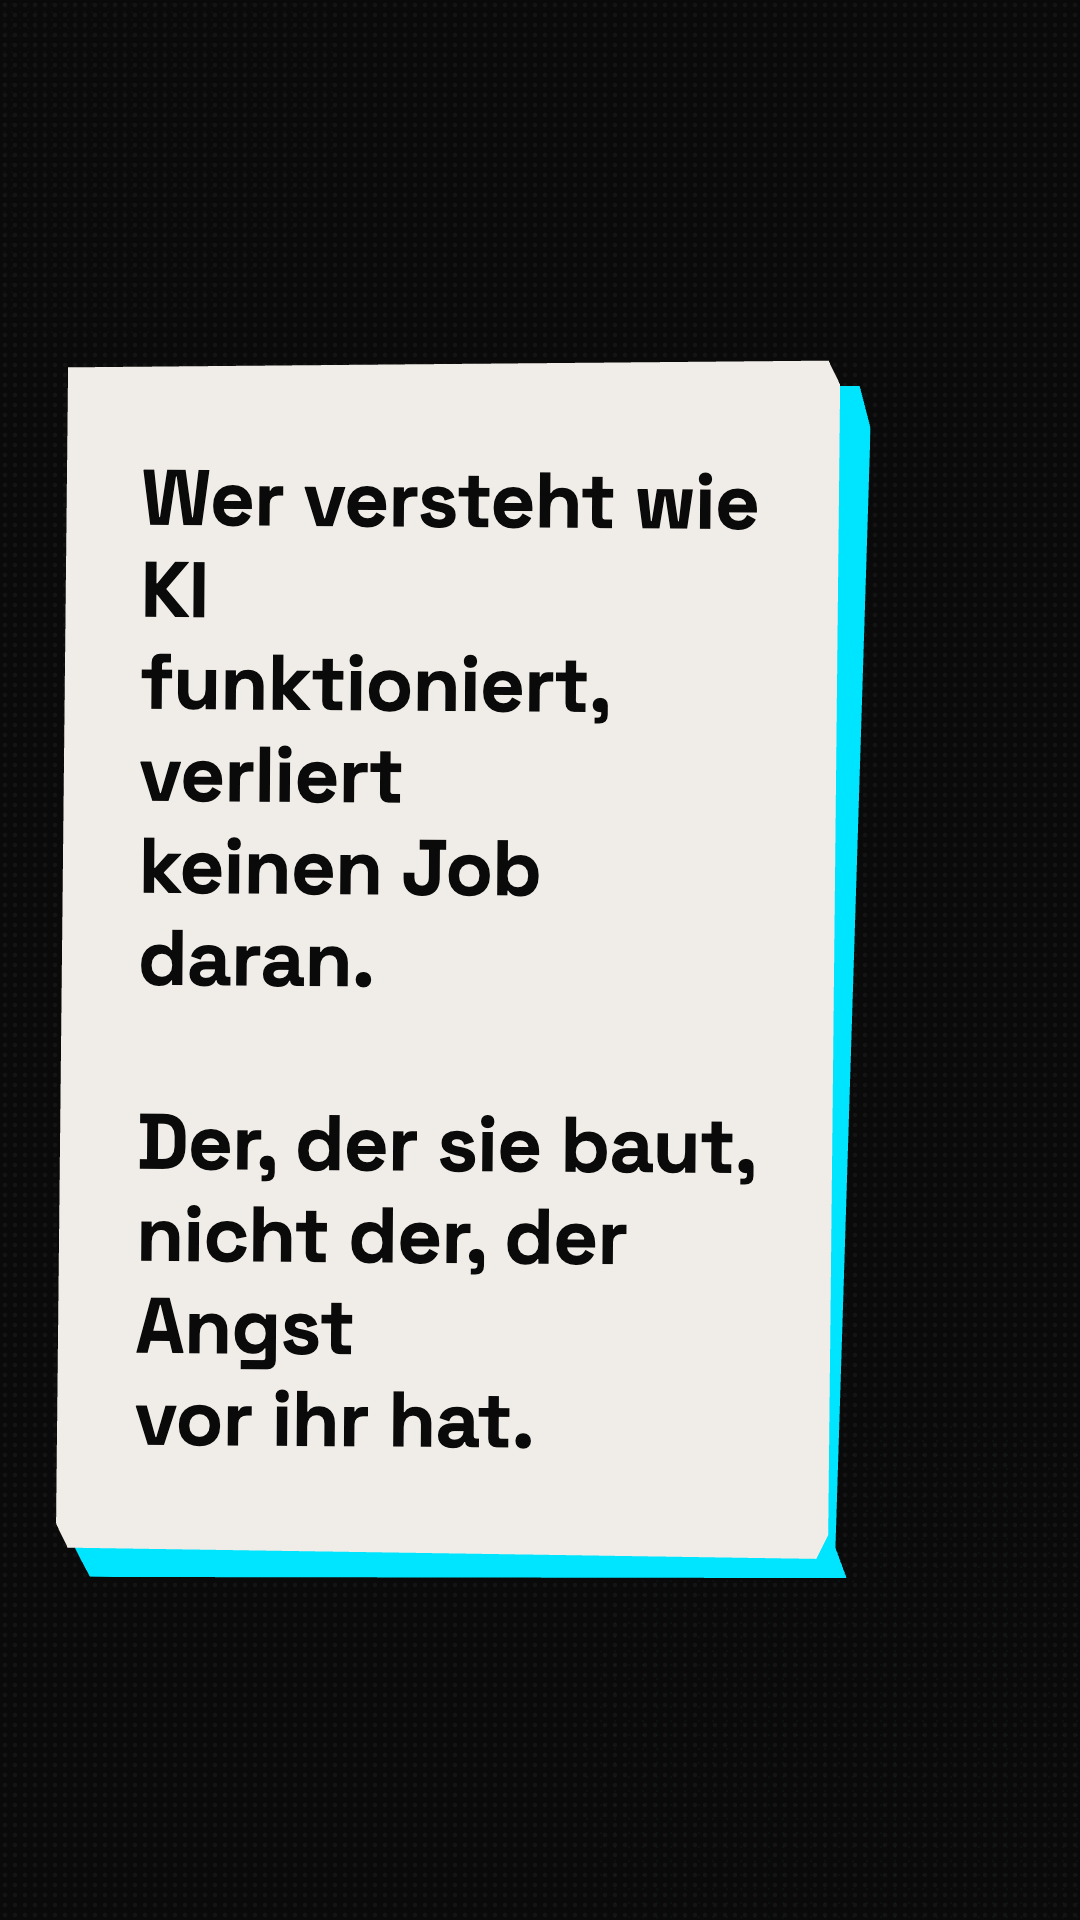
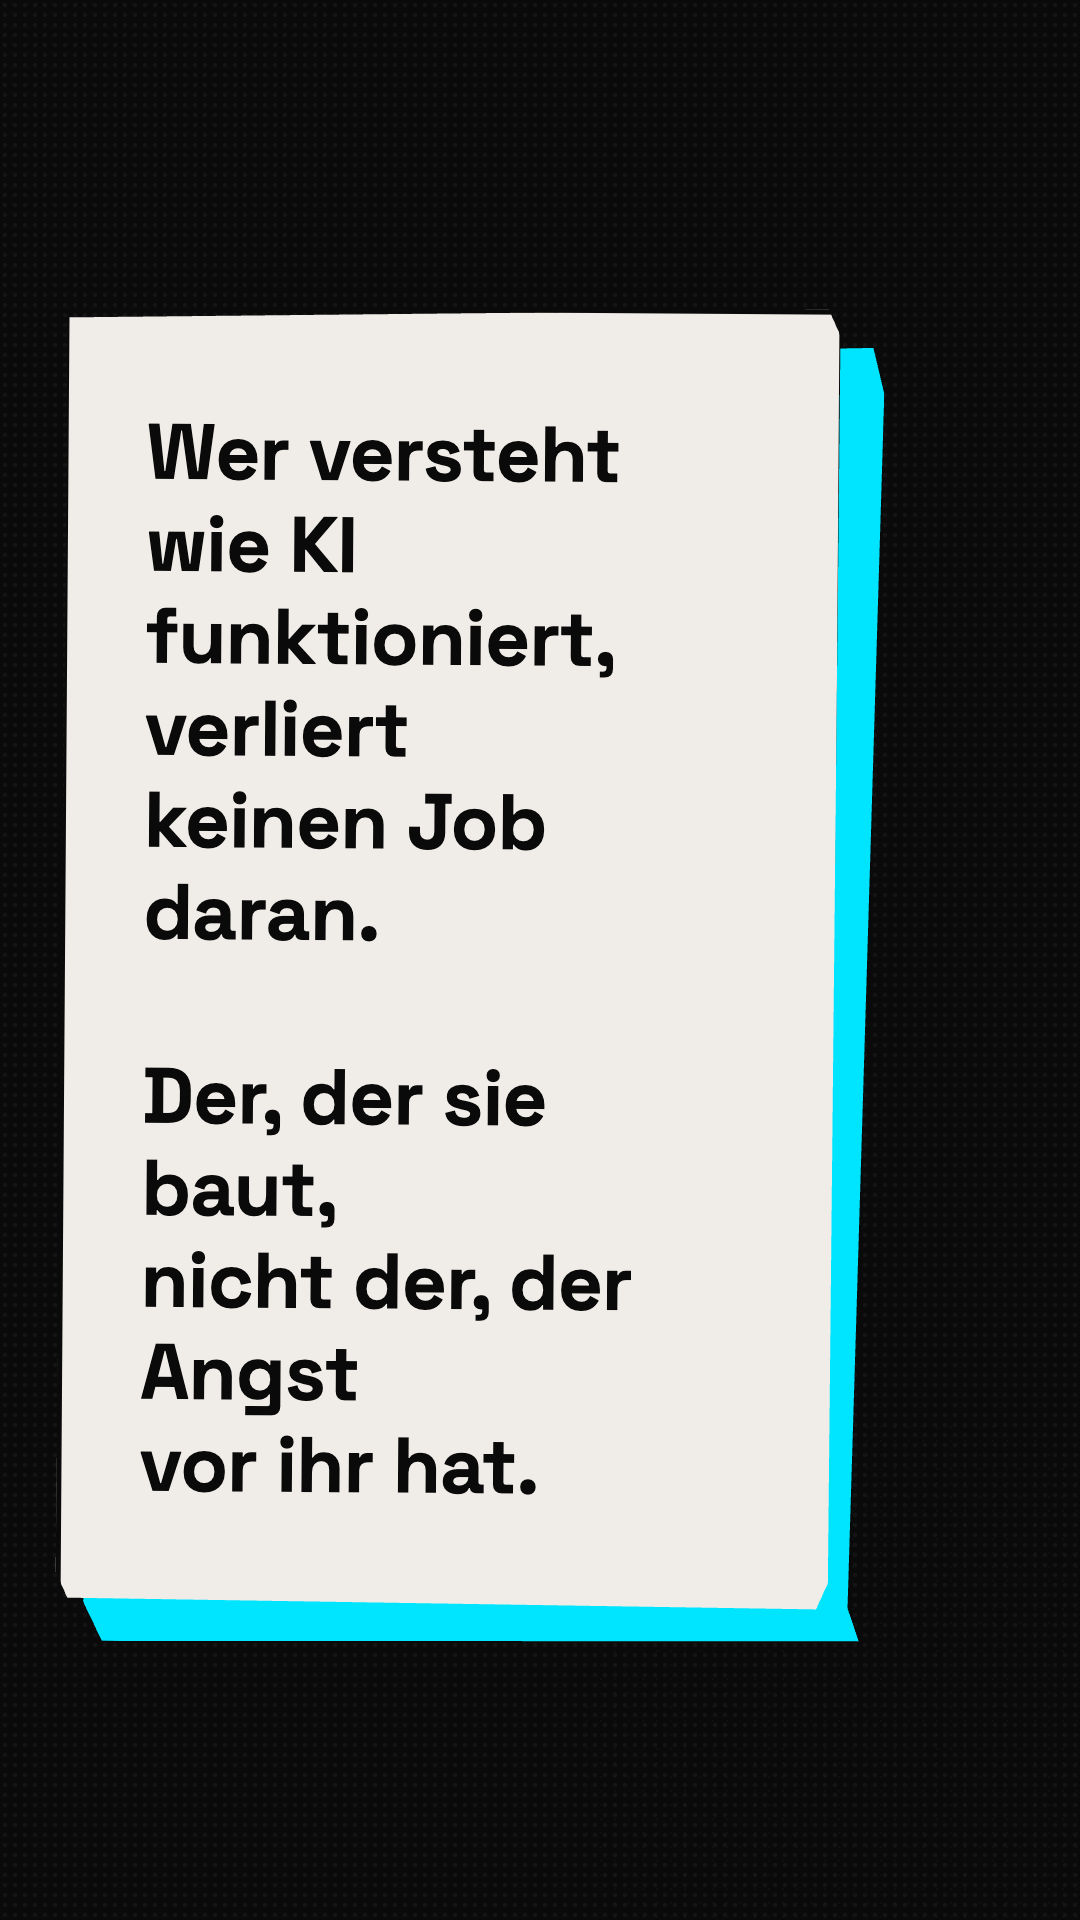
Switch to WIAI yellow accent, fix slide 2 shadow, rework slide 3 tone
- Accent color: cyan → #FACC15 (rgb 250 204 21)
- DirtyCutout: shadow offset 21px → 34px (clearly intentional),
  add 5px dark border to cream box so it reads cleanly against yellow
- Slide 3: minimal=true (no "LINK IN BIO" banner), copy keeps the
  same wry voice as slides 1+2 instead of switching to ad mode

Changed region(s): [[0.0306, 0.1562, 0.825, 0.875]]

diff --git a/pr-wiai/wiai-social/src/components/DirtyCutout.tsx b/pr-wiai/wiai-social/src/components/DirtyCutout.tsx
@@ -25,22 +25,23 @@ export const DirtyCutout: React.FC<Props> = ({
         width: "100%",
       }}
     >
-      {/* Accent shadow */}
+      {/* Accent shadow — aggressive offset so it reads as intentional */}
       <div
         style={{
           position: "absolute",
           inset: 0,
           background: accentColor,
-          transform: `translate(${21 + glitchX * 0.4}px, 21px) rotate(0.6deg)`,
+          transform: `translate(${34 + glitchX * 0.4}px, 34px) rotate(0.6deg)`,
           clipPath:
             "polygon(1% 2%, 98.5% 0%, 100% 3.5%, 98% 96.5%, 99.5% 99%, 2.5% 100%, 0% 97%, 0.5% 3%)",
         }}
       />
-      {/* Cream cutout */}
+      {/* Cream cutout — dark border separates it from the yellow shadow */}
       <div
         style={{
           position: "relative",
           background: "#F0EDE8",
+          border: "5px solid #0A0A0A",
           padding: "96px 78px",
           clipPath:
             "polygon(0.5% 1%, 98% 0%, 99.5% 2%, 99% 97.5%, 97.5% 99.5%, 1.5% 99%, 0% 97%, 0.5% 2.5%)",

diff --git a/pr-wiai/wiai-social/src/compositions/Newsjacking.tsx b/pr-wiai/wiai-social/src/compositions/Newsjacking.tsx
@@ -293,7 +293,7 @@ const Act3: React.FC<{ post: Post }> = ({ post }) => {
   const accent = post.accentColor ?? WIAI_YELLOW;
   return (
     <SlideFrame accentColor={accent} currentSlide={3}>
-      <CtaSlide accentColor={accent} url={post.slide3.url} subtext={post.slide3.subtext} />
+      <CtaSlide accentColor={accent} url={post.slide3.url} subtext={post.slide3.subtext} minimal />
     </SlideFrame>
   );
 };

diff --git a/pr-wiai/wiai-social/src/styles/colors.ts b/pr-wiai/wiai-social/src/styles/colors.ts
@@ -1,4 +1,4 @@
-export const WIAI_YELLOW = "#FFE500";
+export const WIAI_YELLOW = "#FACC15"; // rgb(250,204,21)
 export const BLACK = "#0A0A0A";
 export const CREAM = "#F0EDE8";
 export const WHITE = "#FFFFFF";
